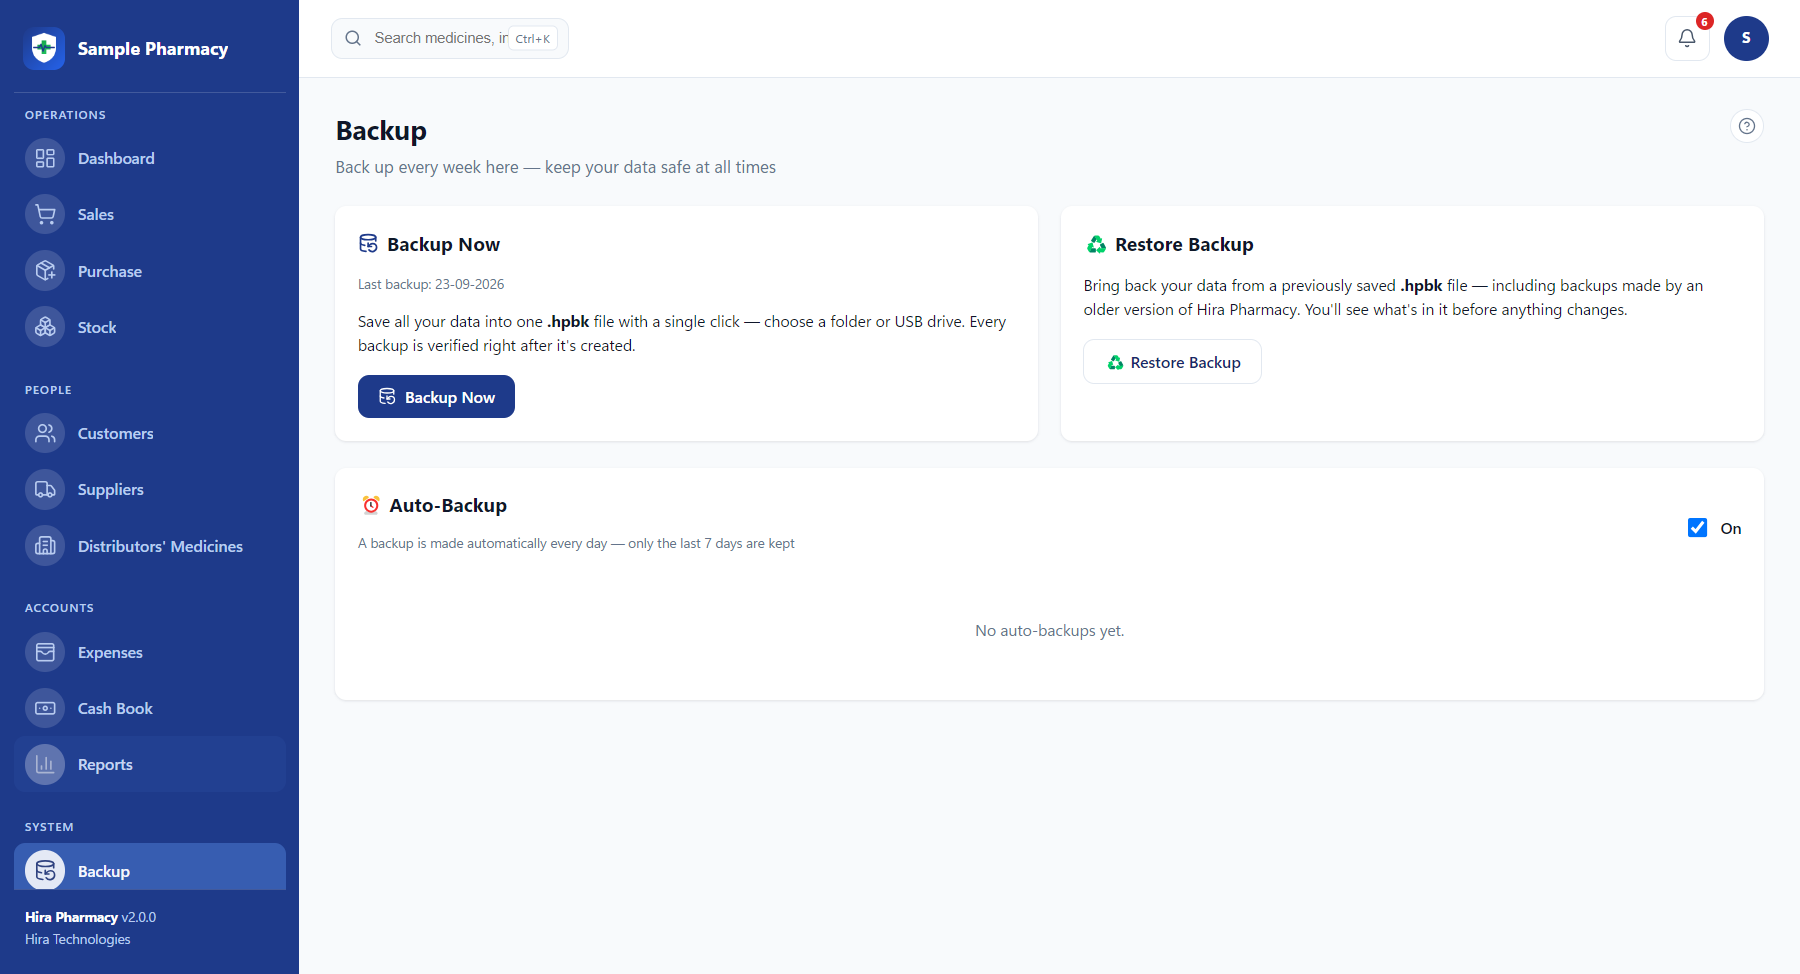
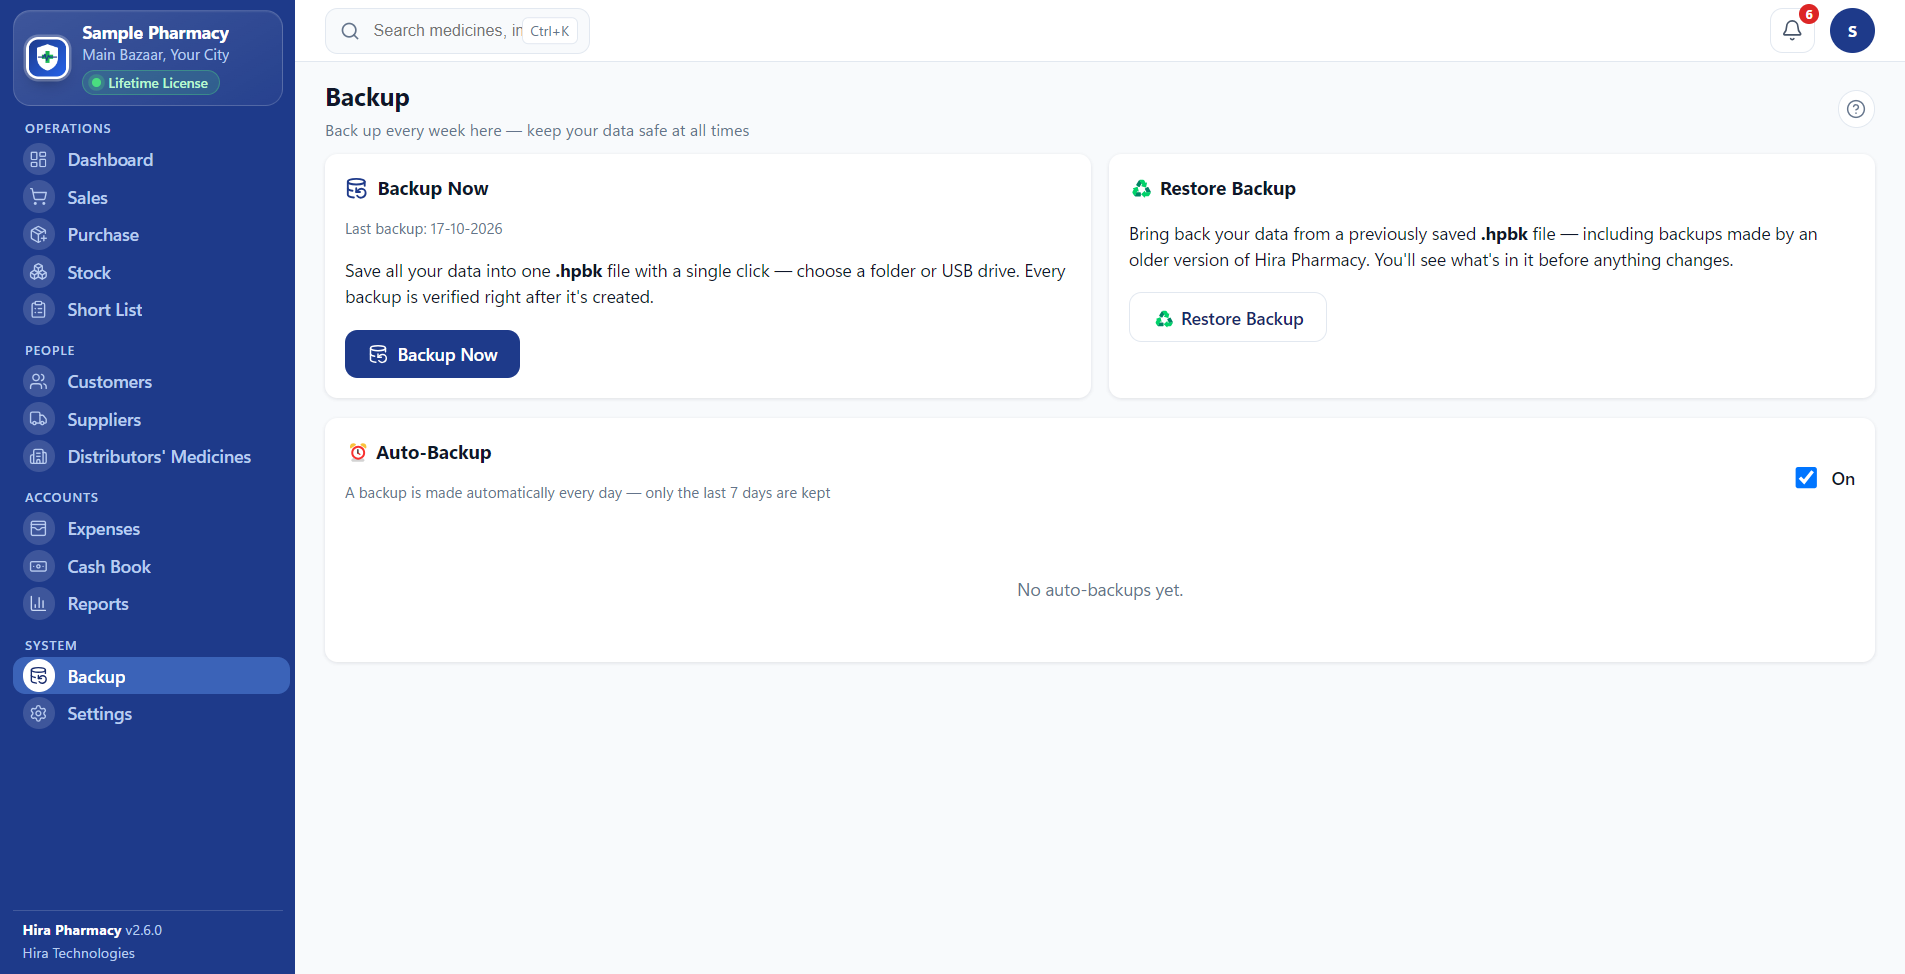
Website screenshots now show the new 2.6 UI (plus a Short List tab)
Retook dashboard, sales, stock, reports, backup, receipt and the share image
from the new interface using sample data; added a Short List screen.

diff --git a/index.html b/index.html
@@ -336,9 +336,9 @@
     <div class="hero-visual">
       <div class="frame">
         <div class="frame-bar"><i></i><i></i><i></i><span>Hira Pharmacy — Dashboard</span></div>
-        <img src="assets/dashboard.png" width="1800" height="974" alt="Hira Pharmacy dashboard showing today's sales, stock count, low-stock and near-expiry alerts" fetchpriority="high">
+        <img src="assets/dashboard.png" width="1905" height="974" alt="Hira Pharmacy dashboard showing today's sales, stock count, low-stock and near-expiry alerts" fetchpriority="high">
       </div>
-      <img class="receipt-float" src="assets/receipt.png" width="478" height="937" alt="Sample 80mm thermal receipt printed by Hira Pharmacy">
+      <img class="receipt-float" src="assets/receipt.png" width="377" height="880" alt="Sample 80mm thermal receipt printed by Hira Pharmacy">
     </div>
   </div>
 </section>
@@ -464,28 +464,34 @@
     <div class="tabs" role="tablist" aria-label="Product screens">
       <button class="tab" role="tab" id="t-sales" aria-selected="true" aria-controls="p-sales">Sales</button>
       <button class="tab" role="tab" id="t-stock" aria-selected="false" aria-controls="p-stock" tabindex="-1">Stock</button>
+      <button class="tab" role="tab" id="t-shortlist" aria-selected="false" aria-controls="p-shortlist" tabindex="-1">Short List</button>
       <button class="tab" role="tab" id="t-reports" aria-selected="false" aria-controls="p-reports" tabindex="-1">Reports</button>
       <button class="tab" role="tab" id="t-backup" aria-selected="false" aria-controls="p-backup" tabindex="-1">Backup</button>
     </div>
 
     <figure class="panel" role="tabpanel" id="p-sales" aria-labelledby="t-sales" style="margin:0">
       <div class="frame"><div class="frame-bar"><i></i><i></i><i></i><span>Hira Pharmacy — Sales</span></div>
-      <img src="assets/sales.png" width="1800" height="974" loading="lazy" alt="Sales screen with a cart of three medicines and a Save and Print button"></div>
-      <figcaption>The counter screen: search or scan, adjust the price or discount, choose cash or credit, and Save &amp; Print.</figcaption>
+      <img src="assets/sales.png" width="1905" height="974" loading="lazy" alt="Sales screen with a cart of three medicines and a Save and Print button"></div>
+      <figcaption>The counter screen: search or scan, adjust the price or discount, add delivery if needed, choose cash or credit, and Save &amp; Print.</figcaption>
     </figure>
     <figure class="panel" role="tabpanel" id="p-stock" aria-labelledby="t-stock" hidden style="margin:0">
       <div class="frame"><div class="frame-bar"><i></i><i></i><i></i><span>Hira Pharmacy — Stock</span></div>
-      <img src="assets/stock.png" width="1800" height="974" loading="lazy" alt="Stock list with batch, expiry and status columns, including a near-expiry medicine highlighted"></div>
+      <img src="assets/stock.png" width="1905" height="974" loading="lazy" alt="Stock list with batch, expiry and status columns, including a near-expiry medicine highlighted"></div>
       <figcaption>Every medicine with its batch, expiry and status at a glance — red for expired, orange for expiring soon, yellow for low stock.</figcaption>
+    </figure>
+    <figure class="panel" role="tabpanel" id="p-shortlist" aria-labelledby="t-shortlist" hidden style="margin:0">
+      <div class="frame"><div class="frame-bar"><i></i><i></i><i></i><span>Hira Pharmacy — Short List</span></div>
+      <img src="assets/shortlist.png" width="1905" height="974" loading="lazy" alt="Short List of medicines to order, with quantity, customer, distributor and Ordered and Received buttons"></div>
+      <figcaption>Note what customers asked for that you don't have, then print the list for your distributor or copy it to WhatsApp.</figcaption>
     </figure>
     <figure class="panel" role="tabpanel" id="p-reports" aria-labelledby="t-reports" hidden style="margin:0">
       <div class="frame"><div class="frame-bar"><i></i><i></i><i></i><span>Hira Pharmacy — Reports</span></div>
-      <img src="assets/reports.png" width="1800" height="974" loading="lazy" alt="Sales report with Print, Save PDF and Save Excel buttons"></div>
+      <img src="assets/reports.png" width="1905" height="974" loading="lazy" alt="Sales report with Print, Save PDF and Save Excel buttons"></div>
       <figcaption>Pick a report and a period, then print it, save a PDF, or export it to Excel.</figcaption>
     </figure>
     <figure class="panel" role="tabpanel" id="p-backup" aria-labelledby="t-backup" hidden style="margin:0">
       <div class="frame"><div class="frame-bar"><i></i><i></i><i></i><span>Hira Pharmacy — Backup</span></div>
-      <img src="assets/backup.png" width="1800" height="974" loading="lazy" alt="Backup screen with Backup Now, Restore Backup and daily Auto-Backup"></div>
+      <img src="assets/backup.png" width="1905" height="974" loading="lazy" alt="Backup screen with Backup Now, Restore Backup and daily Auto-Backup"></div>
       <figcaption>Back up in one click, keep daily automatic copies, and restore with a safety net.</figcaption>
     </figure>
   </div>
@@ -506,7 +512,7 @@
     </div>
     <div class="split-media">
       <div class="receipt-stage">
-        <img src="assets/receipt.png" width="478" height="937" loading="lazy" alt="Sample thermal receipt with shop details, itemised medicines and total">
+        <img src="assets/receipt.png" width="377" height="880" loading="lazy" alt="Sample thermal receipt with shop details, itemised medicines and total">
       </div>
     </div>
   </div>
